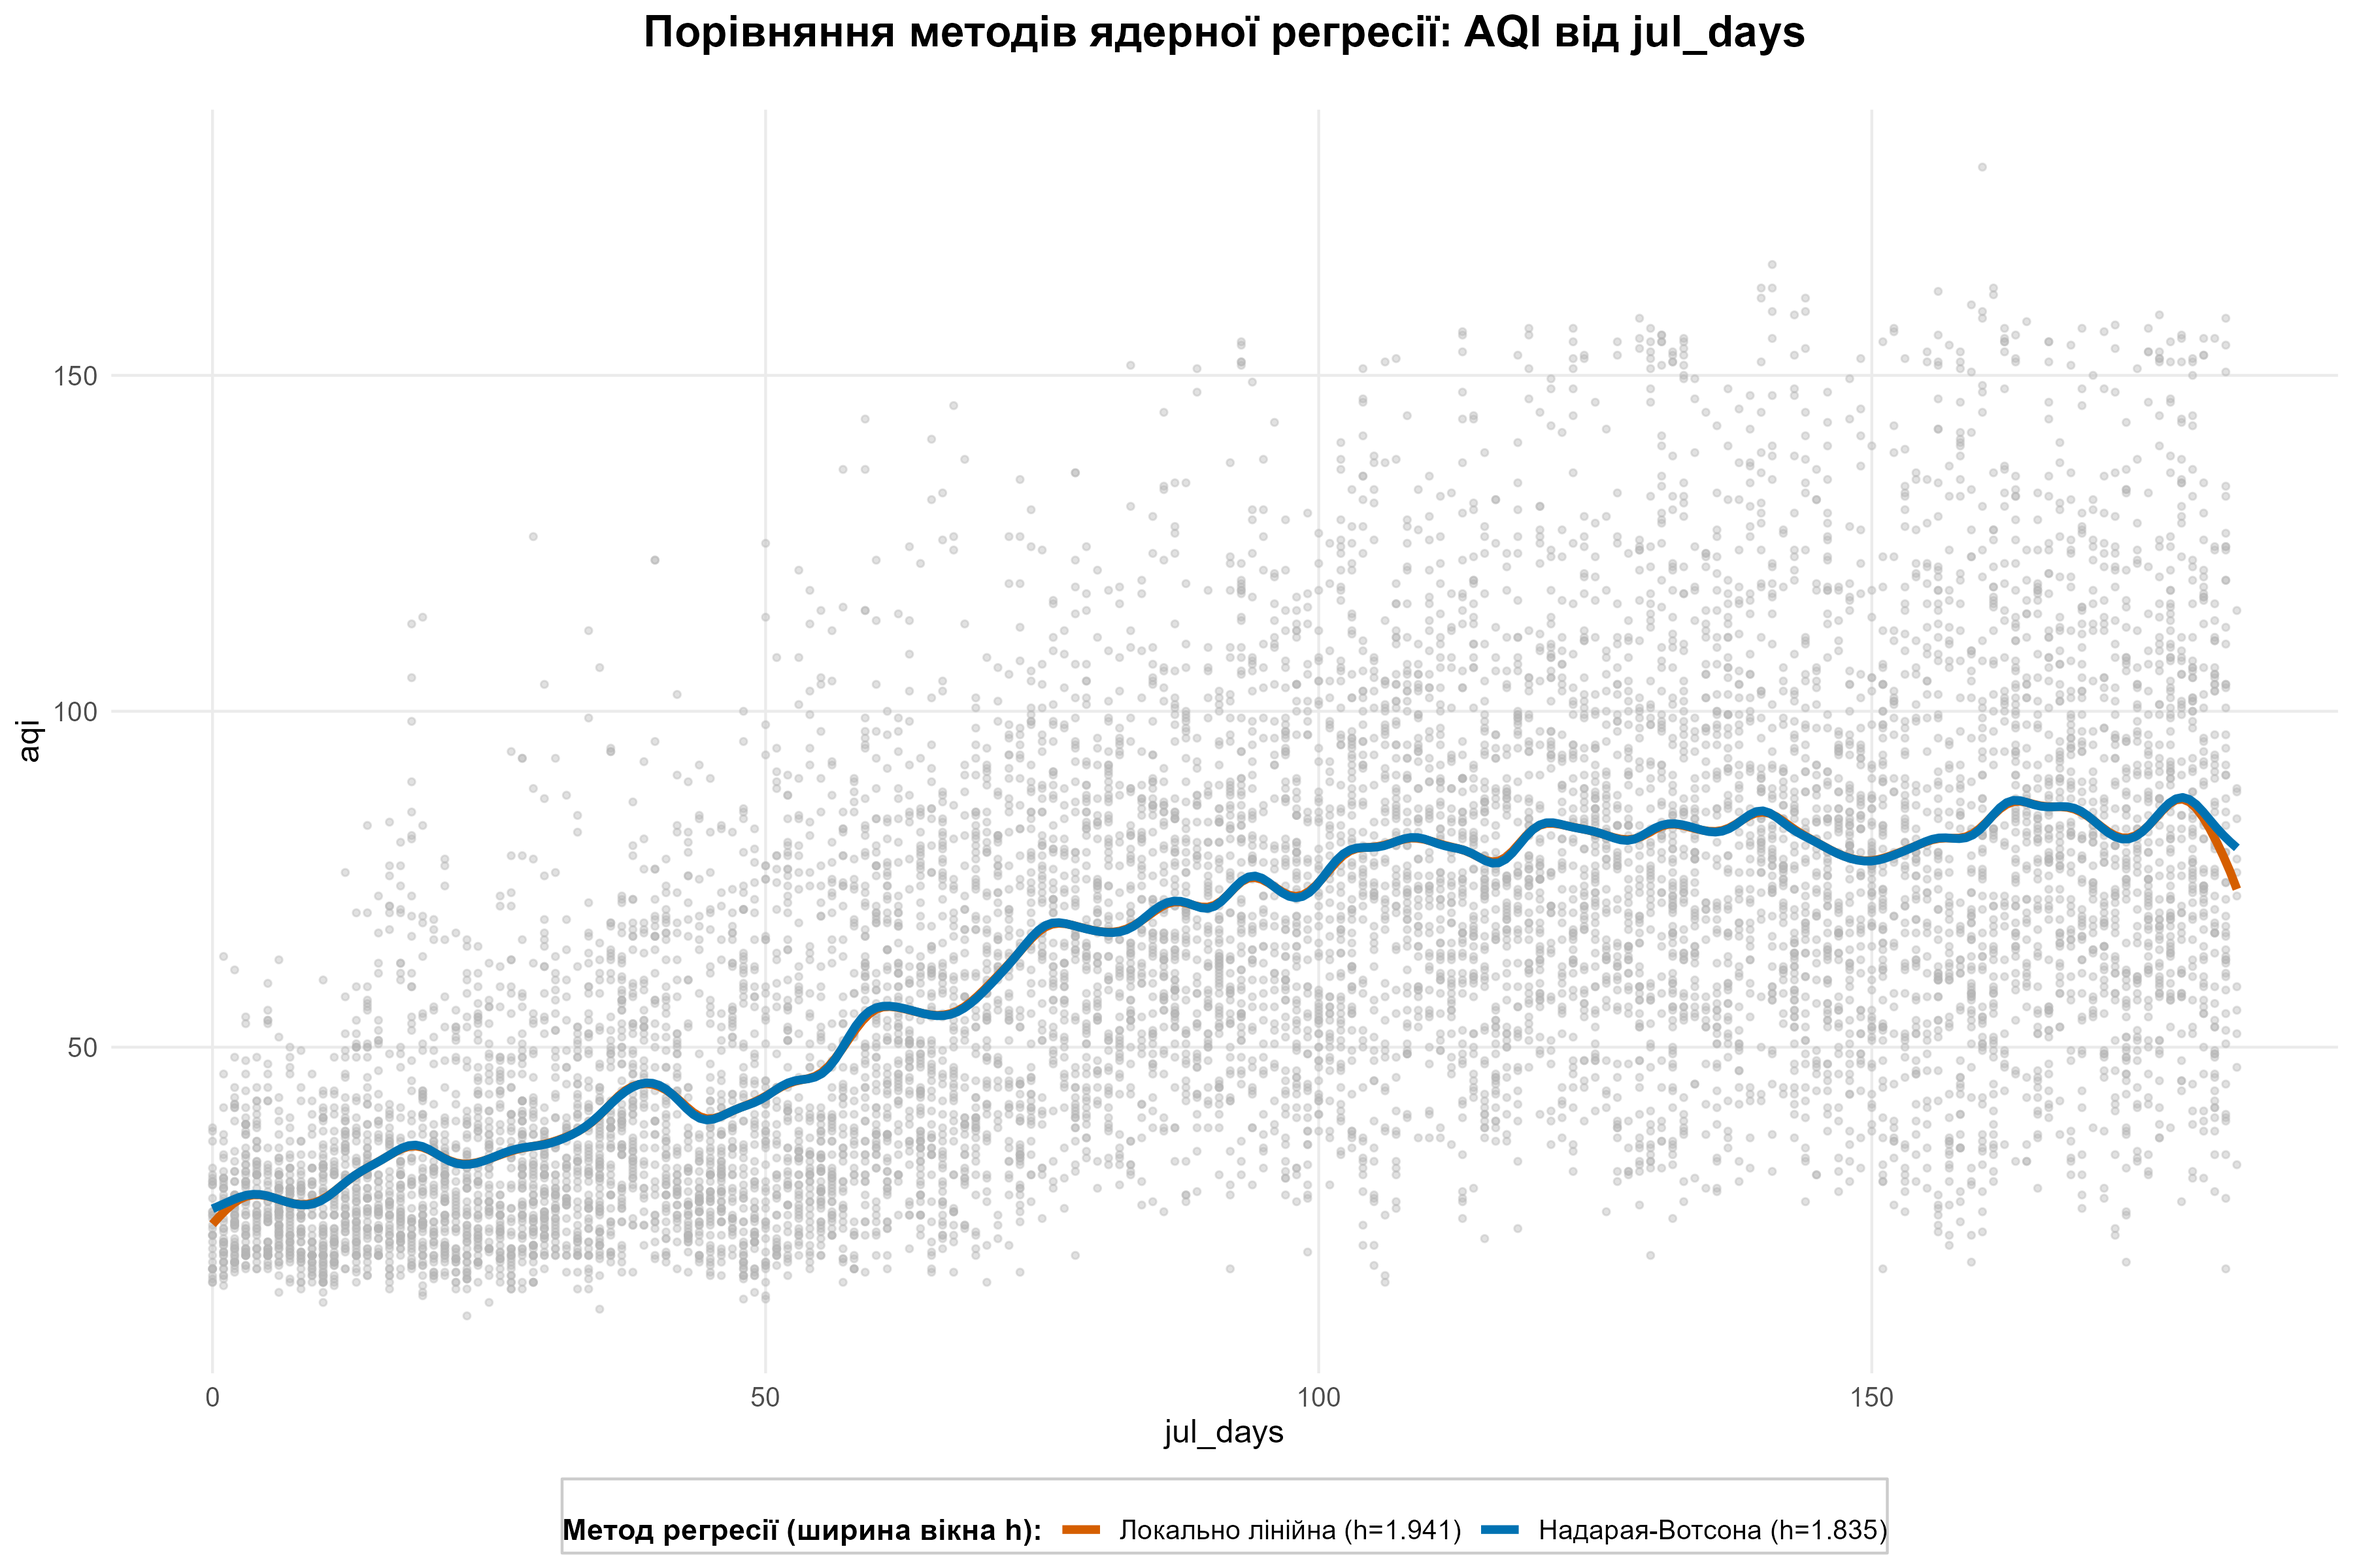
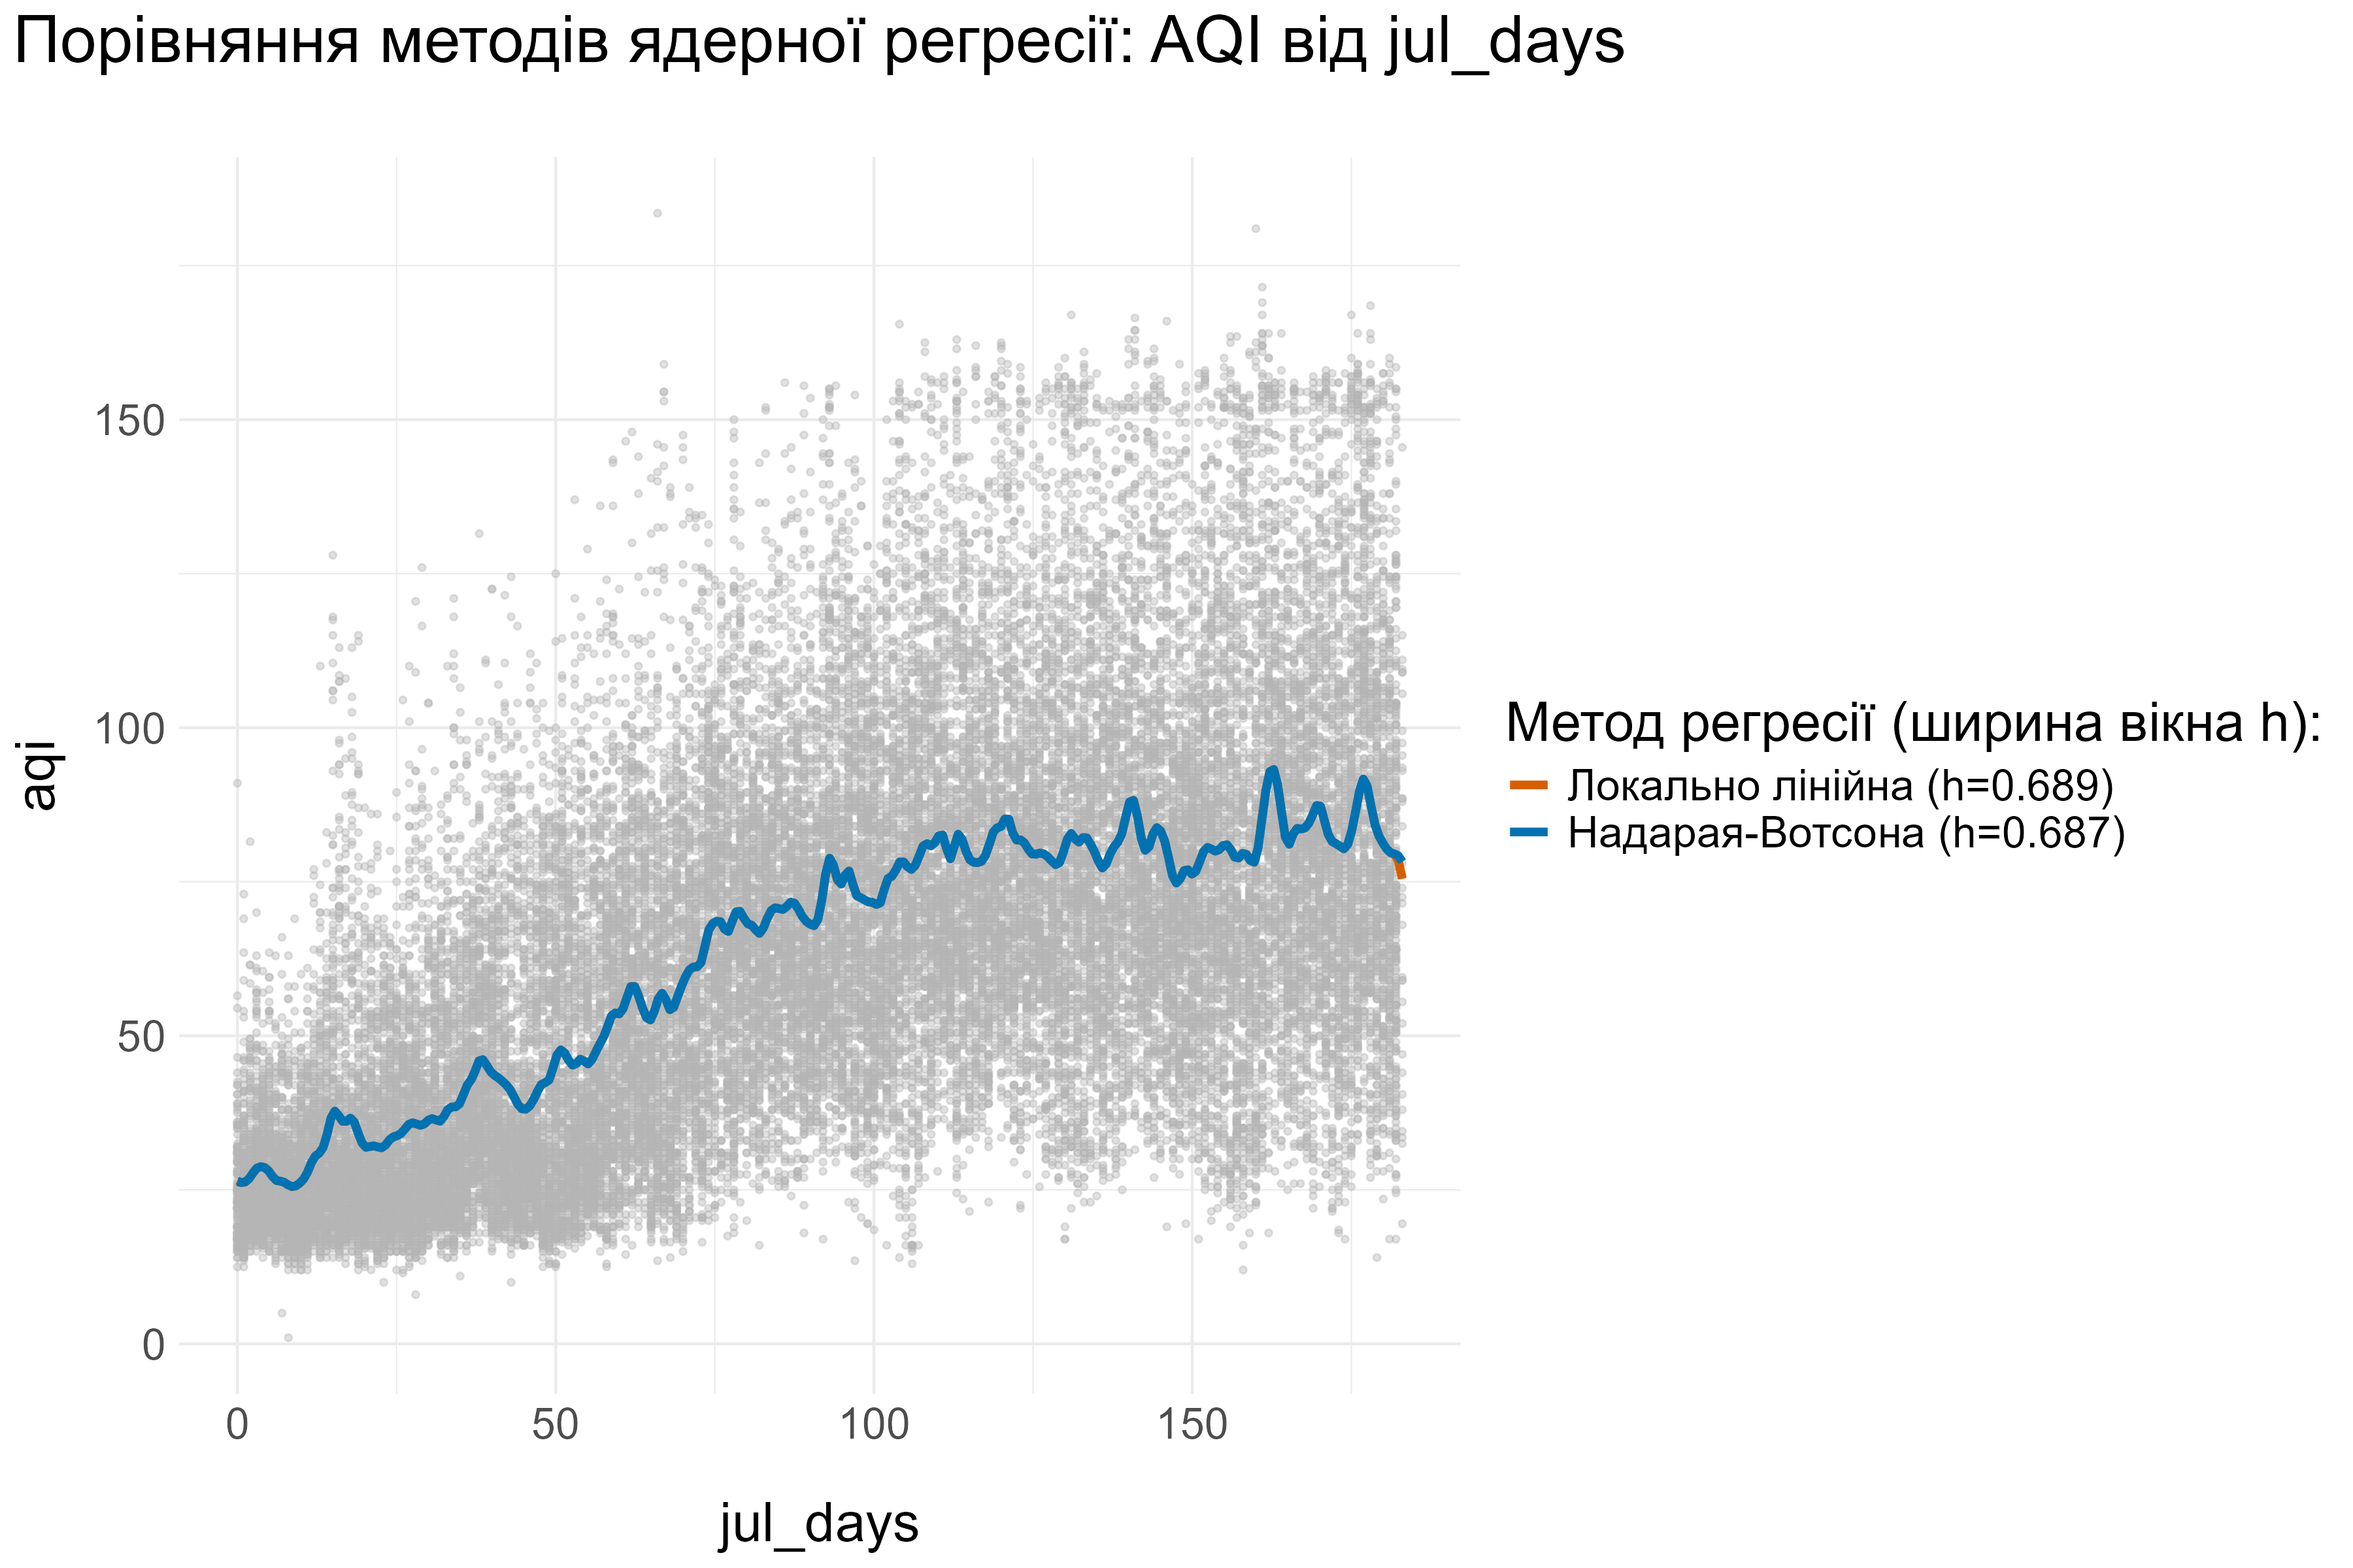
Update presentation

diff --git a/notes/presentation/lab4/presentation4.tex b/notes/presentation/lab4/presentation4.tex
@@ -1,4 +1,4 @@
-\documentclass{beamer}
+\documentclass{beamer}
 
 
 \usepackage[utf8]{inputenc}   % Підтримка UTF-8
@@ -16,6 +16,7 @@
 \usepackage{csquotes}
 \usepackage{xcolor}
 \usepackage{multicol} % Для багатостовпчикового тексту
+\usepackage{caption}
 
 \usepackage{moresize} % Для додаткових опцій розміру тексту 
 \usepackage{tabularray}
@@ -135,6 +136,32 @@
   %\end{itemize}
 \end{frame}
 
+%\begin{frame}
+%  \frametitle{Ядрова регресія}
+%  
+%  \begin{center}
+%    \includegraphics[height=2.8in]{plots/lab4/kernal/npreg_comparison_final_final.png}
+%  \end{center}
+% 
+%  %\begin{itemize}
+%  %  \item \textbf{Локальна поліноміальна регресія (Local Polynomial Regression):}
+%  %  Узагальнення оцінки Надарая-Вотсона. Замість локального усереднення $Y_i$, вона апроксимує функцію регресії $m(x)$ локальним поліномом степеня $p$.
+%  %  Для локально-лінійної регресії ($p=1$), оцінка $\hat{\beta}_0$ в точці $x$ є оцінкою $m(x)$:
+%  %  $$ (\hat{\beta}_0, \hat{\beta}_1) = \arg\min_{\beta_0, \beta_1} \sum_{i=1}^{n} \left(Y_i - \beta_0 - \beta_1(X_i - x)\right)^2 K_h(X_i - x) $$
+%  %  Тоді $\hat{m}_h(x) = \hat{\beta}_0$.
+%  %  Локальні поліноми вищих порядків можуть краще адаптуватися до кривизни функції та зменшувати зміщення на границях.
+%  %\end{itemize}
+%\end{frame}
+
+\begin{frame}
+  \frametitle{Ядрова регресія}
+  
+  \begin{center}
+    \includegraphics[height=2.8in]{plots/lab4/kernal/npreg_comparison_final_10.png}
+  \end{center}
+ 
+\end{frame}
+
 \begin{frame}
   \frametitle{Ядрова регресія}
   
@@ -142,29 +169,41 @@
     \includegraphics[height=2.8in]{plots/lab4/kernal/npreg_comparison_final.png}
   \end{center}
  
-  %\begin{itemize}
-  %  \item \textbf{Локальна поліноміальна регресія (Local Polynomial Regression):}
-  %  Узагальнення оцінки Надарая-Вотсона. Замість локального усереднення $Y_i$, вона апроксимує функцію регресії $m(x)$ локальним поліномом степеня $p$.
-  %  Для локально-лінійної регресії ($p=1$), оцінка $\hat{\beta}_0$ в точці $x$ є оцінкою $m(x)$:
-  %  $$ (\hat{\beta}_0, \hat{\beta}_1) = \arg\min_{\beta_0, \beta_1} \sum_{i=1}^{n} \left(Y_i - \beta_0 - \beta_1(X_i - x)\right)^2 K_h(X_i - x) $$
-  %  Тоді $\hat{m}_h(x) = \hat{\beta}_0$.
-  %  Локальні поліноми вищих порядків можуть краще адаптуватися до кривизни функції та зменшувати зміщення на границях.
-  %\end{itemize}
 \end{frame}
 
 \begin{frame}
   \frametitle{Оцінка моделі}
-  \resizebox{\textwidth}{!}{ 
-    \begin{tabular}{llrrrrr}
+  \resizebox{\textwidth}{!}{%
+    \begin{tabular}{l l r r r r r}
       \toprule
-    Метод & Тип & Bandwidth & R\_squared & RMSE\_train & RMSE\_test & MAE\_test \\
+      Розмір вибірки & Метод & Bandwidth (h) & $R^2$ & RMSE (навч.) & RMSE (тест) & MAE (тест) \\
+      \midrule 
+      10 тис. & Надарая-Вотсона & 1.0499 & 0.4094 & 24.369 & 24.706 & 19.112 \\
+      10 тис. & Локально лінійна & 1.0346 & 0.4096 & 24.364 & 24.709 & 19.117 \\
       \midrule
-    Надарая-Вотсона & Константна (LC) & 1.83 & 0.41 & 24.52 & 24.57 & 19.08 \\
-      Локально лінійна & Лінійна (LL) & 1.94 & 0.41 & 24.53 & 24.58 & 19.08 \\
+      40 тис. & Надарая-Вотсона & 0.6874 & 0.4103 & 24.375 & 24.670 & 19.087 \\
+      40 тис. & Локально лінійна & 0.6887 & 0.4103 & 24.375 & 24.670 & 19.087 \\
       \bottomrule
-    \end{tabular}
+    \end{tabular}%
   }
 \end{frame}
+
+\begin{frame}
+  \frametitle{Підсумок моделі}
+  \begin{columns}[T] 
+  \begin{column}{0.48\textwidth} 
+  \includegraphics[width=\textwidth]{plots/lab4/kernal/10.jpg}
+  \captionof{figure}{Summary 10 тисяч}
+  \end{column}
+  \hfill
+  \begin{column}{0.48\textwidth} 
+  \includegraphics[width=\textwidth]{plots/lab4/kernal/40.jpg}
+  \captionof{figure}{Summary 40 тисяч}
+  \end{column}
+  \end{columns}
+ 
+\end{frame}
+
 
 \begin{frame}
   \frametitle{Висновок}
@@ -172,7 +211,6 @@
     \item Обидві моделі показали майже однакову якість за всіма метриками. 
     \item $ R^2 = 0.41 $ вказує на те, що моделі мають обмежену здатність пояснювати варіацію у даних.
     \item Вибір між ними може залежати не стільки від якості, скільки від стійкості до шуму чи переваг у теоретичних властивостях.
-    Локально-лінійна модель зазвичай краще працює на краях діапазону або коли дані мають локальну зміну тренду.
   \end{itemize}
 \end{frame}
 
@@ -349,8 +387,6 @@
   \begin{itemize}
     \item Виявили ключові фактори, що визначають якість повітря,
      звівши складний набір даних до двох основних вимірів.
-    \item  Перша головна компонента представляє "загальне забруднення" від спалювання (PM, NOx, CO),
-     яке сильно зростає при низькій швидкості вітру.
     \item Результати показують, що забруднювачі від транспорту/промисловості(домішки) діють спільно,
      а швидкість вітру є вирішальним фактором їх розсіювання.
   \end{itemize}
